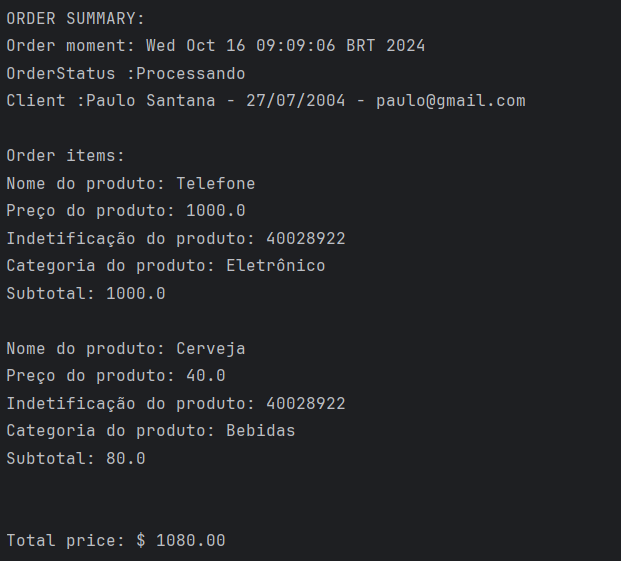
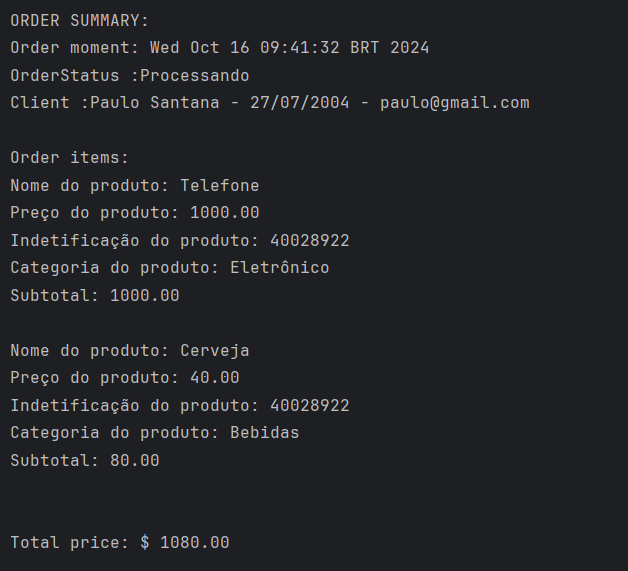
Updated main

diff --git a/Resolucao-projeto/src/entities/Order.java b/Resolucao-projeto/src/entities/Order.java
@@ -109,10 +109,10 @@ public class Order {
         sb.append("Order items:" + "\n");
         for(OrderItem entidade : items){
             sb.append("Nome do produto: " + entidade.getProduct().getNomeProduto() + "\n" +
-            "Preço do produto: " + entidade.getProduct().getPrecoProduto() + "\n" +
+            "Preço do produto: " + String.format("%.2f", entidade.getProduct().getPrecoProduto()) + "\n" +
             "Indetificação do produto: " + entidade.getProductIndenfication().idProduto + "\n" +
             "Categoria do produto: " + entidade.getProductIndenfication().getCategoriaProduto() + "\n" +
-            "Subtotal: " + entidade.subTotalItem() + "\n" + "\n");
+            "Subtotal: " + String.format("%.2f", entidade.subTotalItem()) + "\n" + "\n");
         }
 
         sb.append("\n");

diff --git a/README.md b/README.md
@@ -33,7 +33,7 @@ Requisitos de entrada do projeto deve solicitar ao usuário os seguintes campos:
 
 **Dados do Pedido**: 'Status' e 'Quantidade'
 
-**Dados do item**: 'Nome', 'Preço' e 'Quantidade'
+**Dados do item**: 'Nome', 'Preço', 'Quantidade' e 'categoria'
 
 ![Input_codigo.png](Imagens%2FInput_codigo.png)
 
